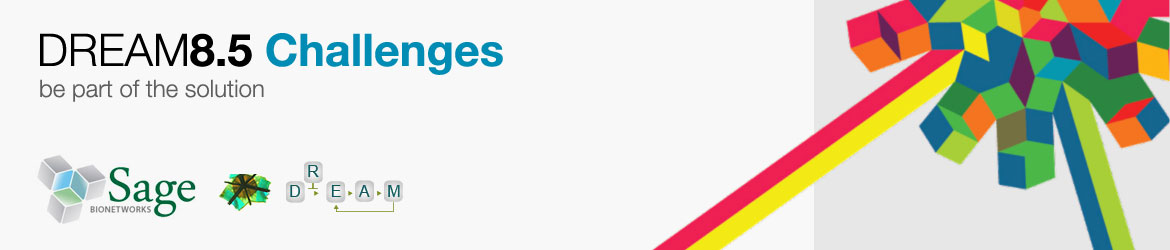
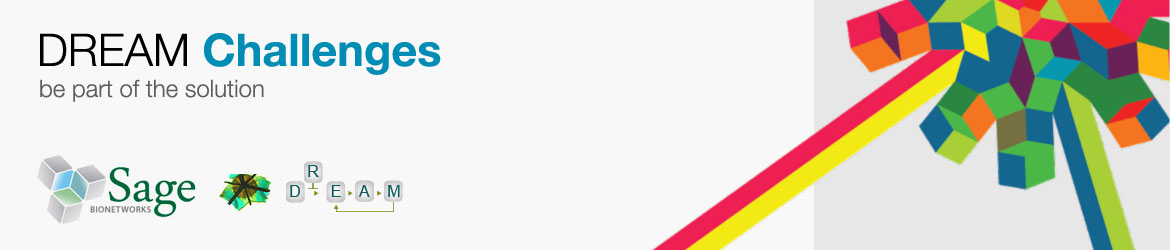
swc-1036 - dream changes

Changed region(s): [[0.1538, 0.112, 0.4308, 0.308]]

diff --git a/src/main/java/org/sagebionetworks/web/client/view/HomeViewImpl.java b/src/main/java/org/sagebionetworks/web/client/view/HomeViewImpl.java
@@ -67,7 +67,7 @@ public class HomeViewImpl extends Composite implements HomeView {
 	@UiField
 	SimplePanel registerBtnPanel;		
 	@UiField
-	SimplePanel dream8BtnPanel;
+	SimplePanel dreamBtnPanel;
 	@UiField
 	HTMLPanel whatIsSynapseContainer;
 	@UiField
@@ -170,16 +170,16 @@ public class HomeViewImpl extends Composite implements HomeView {
 		});
 		registerBtnPanel.setWidget(registerBtn);
 		
-		Button dream8Btn = new Button(DisplayConstants.BUTTON_DREAM_8);
-		dream8Btn.removeStyleName("gwt-Button");
-		dream8Btn.addStyleName("btn btn-default btn-lg btn-block");
-		dream8Btn.addClickHandler(new ClickHandler() {			
+		Button dreamBtn = new Button(DisplayConstants.BUTTON_DREAM);
+		dreamBtn.removeStyleName("gwt-Button");
+		dreamBtn.addStyleName("btn btn-default btn-lg btn-block");
+		dreamBtn.addClickHandler(new ClickHandler() {			
 			@Override
 			public void onClick(ClickEvent event) {
-				globalApplicationState.getPlaceChanger().goTo(new Challenges("DREAM8"));
+				globalApplicationState.getPlaceChanger().goTo(new Challenges("DREAM"));
 			}
 		});
-		dream8BtnPanel.setWidget(dream8Btn);
+		dreamBtnPanel.setWidget(dreamBtn);
 		
 		// Programmatic Clients
 		fillProgrammaticClientInstallCode();

diff --git a/src/main/java/org/sagebionetworks/web/client/DisplayConstants.java b/src/main/java/org/sagebionetworks/web/client/DisplayConstants.java
@@ -219,7 +219,7 @@ public class DisplayConstants {
 	public static final String BUTTON_REGISTER = "Register";
 	public static final String LINK_COMMUNITY_FORUM = "Forum";
 	public static final String BUTTON_LOGIN = "Login";
-	public static final String BUTTON_DREAM_8 = "DREAM8 Challenges";
+	public static final String BUTTON_DREAM = "DREAM Challenges";
 	public static final String LABEL_WELCOME = "Welcome";
 	public static final String BUTTON_LOGOUT = "Logout";
 	public static final String BUTTON_MY_PROFILE = "My Profile";
